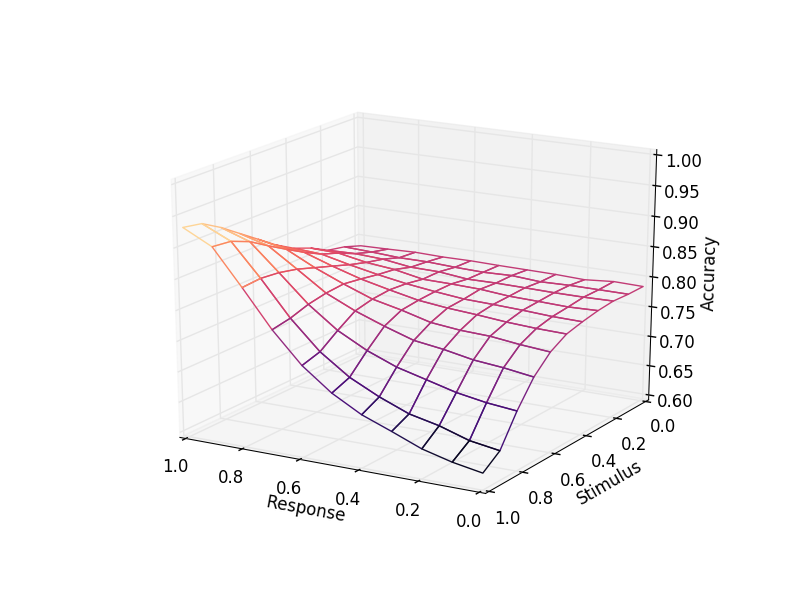
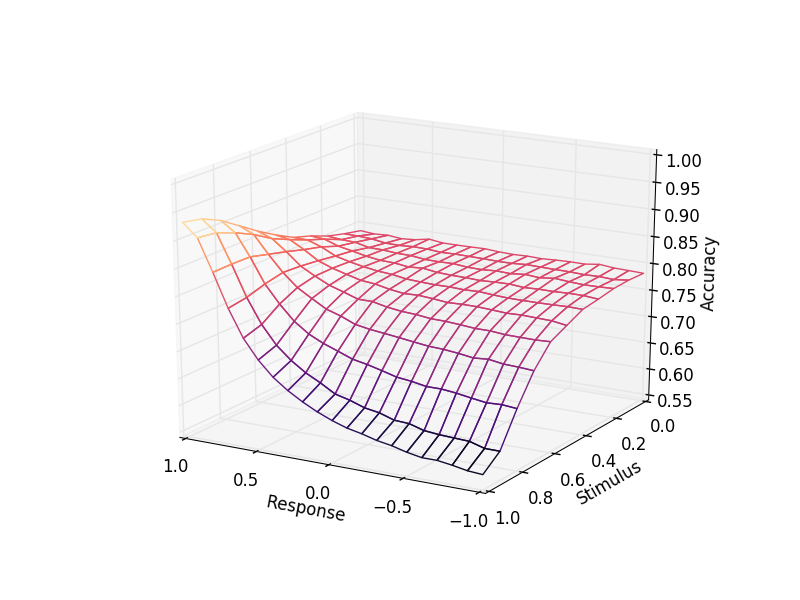
Fixed the range of the response similarity

diff --git a/hebbian_osgood_surface.py b/hebbian_osgood_surface.py
@@ -12,9 +12,10 @@ def cos_sim(v1, v2):
 def normalise(v):
     return v / np.linalg.norm(v)
 
-num_samples = 11 # It should be 11 in this script...
+num_samples_s = 11 # It should be 11 in this script...
+num_samples_r = 21 # It should be 21 in this script...
 
-def hebbian_osgood_surfacer(check_list, unit_num, alpha, noise_strength, num_runs):
+def hebbian_osgood_surfacer(check_list, unit_num, alpha, noise_strength, num_runs, num_samples_s, num_samples_r):
     """
     check_list: 'transfer' or 'retroaction'. They seem identical though...
     unit_num: 2**int. It must be a power of 2. The number of the units.
@@ -28,19 +29,17 @@ def hebbian_osgood_surfacer(check_list, unit_num, alpha, noise_strength, num_run
     s1 = normalise(s1)
     r1 = normalise(r1)
 
-    num_samples = 11
-
-    results = np.zeros((num_samples,num_samples)) 
+    results = np.zeros((num_samples_s,num_samples_r)) 
 
     # 1st pair
     W = alpha*np.outer(r1, s1)
 
     # 2nd pair
     for run in range(num_runs):
-        for i in range(num_samples):
-            for j in range(num_samples): 
+        for i in range(num_samples_s):
+            for j in range(num_samples_r): 
                 gamma_s = i * 0.1
-                gamma_r = j * 0.1
+                gamma_r = j * 0.1 - 1.0
 
                 s2 = gamma_s*s1 + (1-gamma_s)*orthog_vs[2]
                 s2 = normalise(s2)
@@ -62,12 +61,14 @@ def hebbian_osgood_surfacer(check_list, unit_num, alpha, noise_strength, num_run
 
     return results
 
-results = hebbian_osgood_surfacer(check_list='transfer', unit_num=2**4, alpha=1, noise_strength=0.20, num_runs=5000)
+results = hebbian_osgood_surfacer(check_list='transfer', unit_num=2**4, alpha=1,
+                                    noise_strength=0.20, num_runs=5000,
+                                    num_samples_s=num_samples_s, num_samples_r=num_samples_r)
 
 
 # Visualising
-x = np.linspace(0,1,num_samples)
-y = np.linspace(0,1,num_samples)
+x = np.linspace(-1,1,num_samples_r)
+y = np.linspace(0,1,num_samples_s)
 X, Y = np.meshgrid(x, y)
 
 fig = plt.figure()
